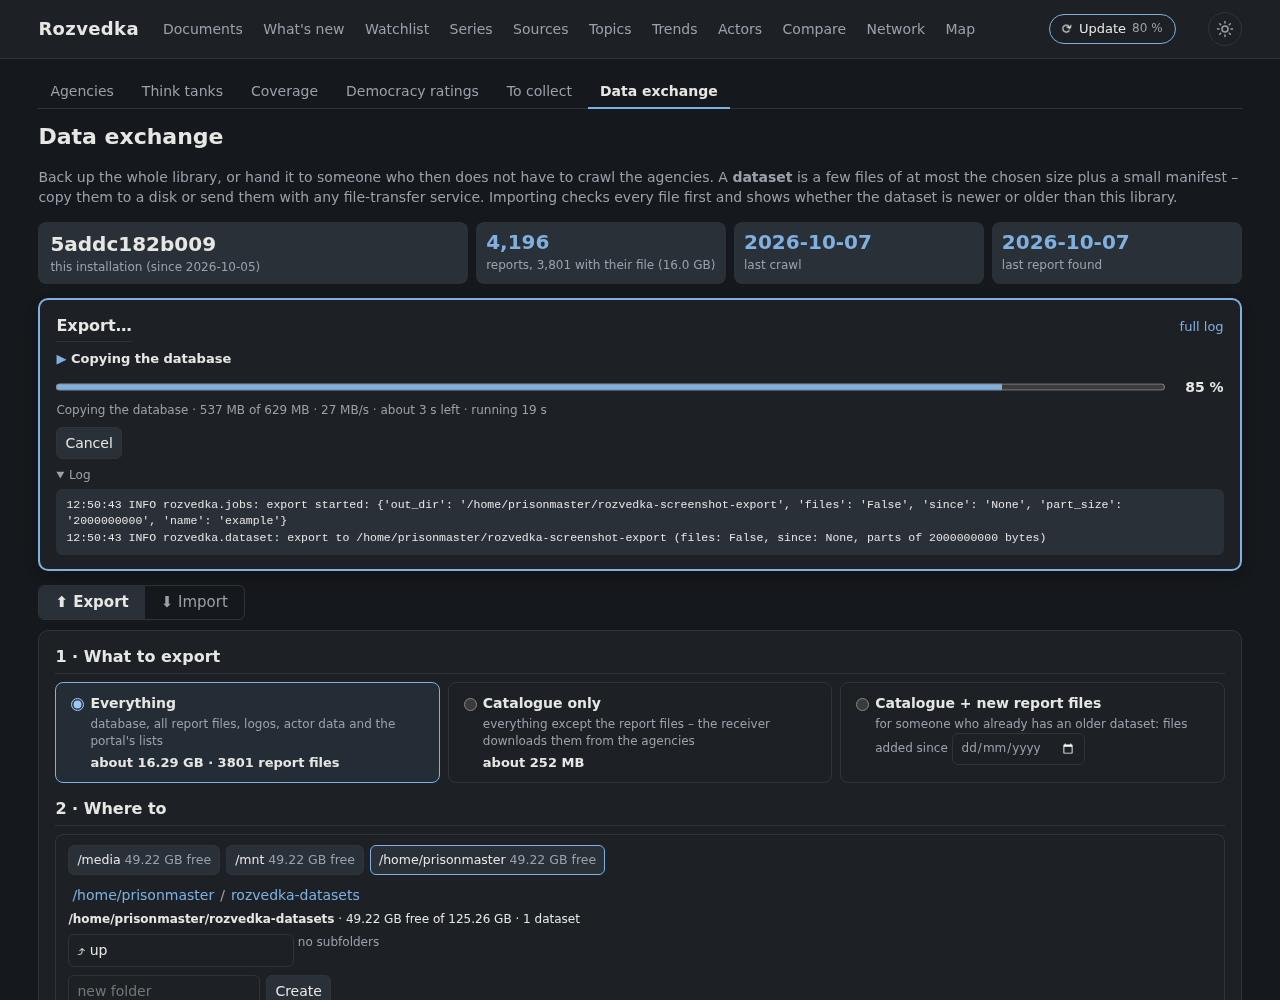
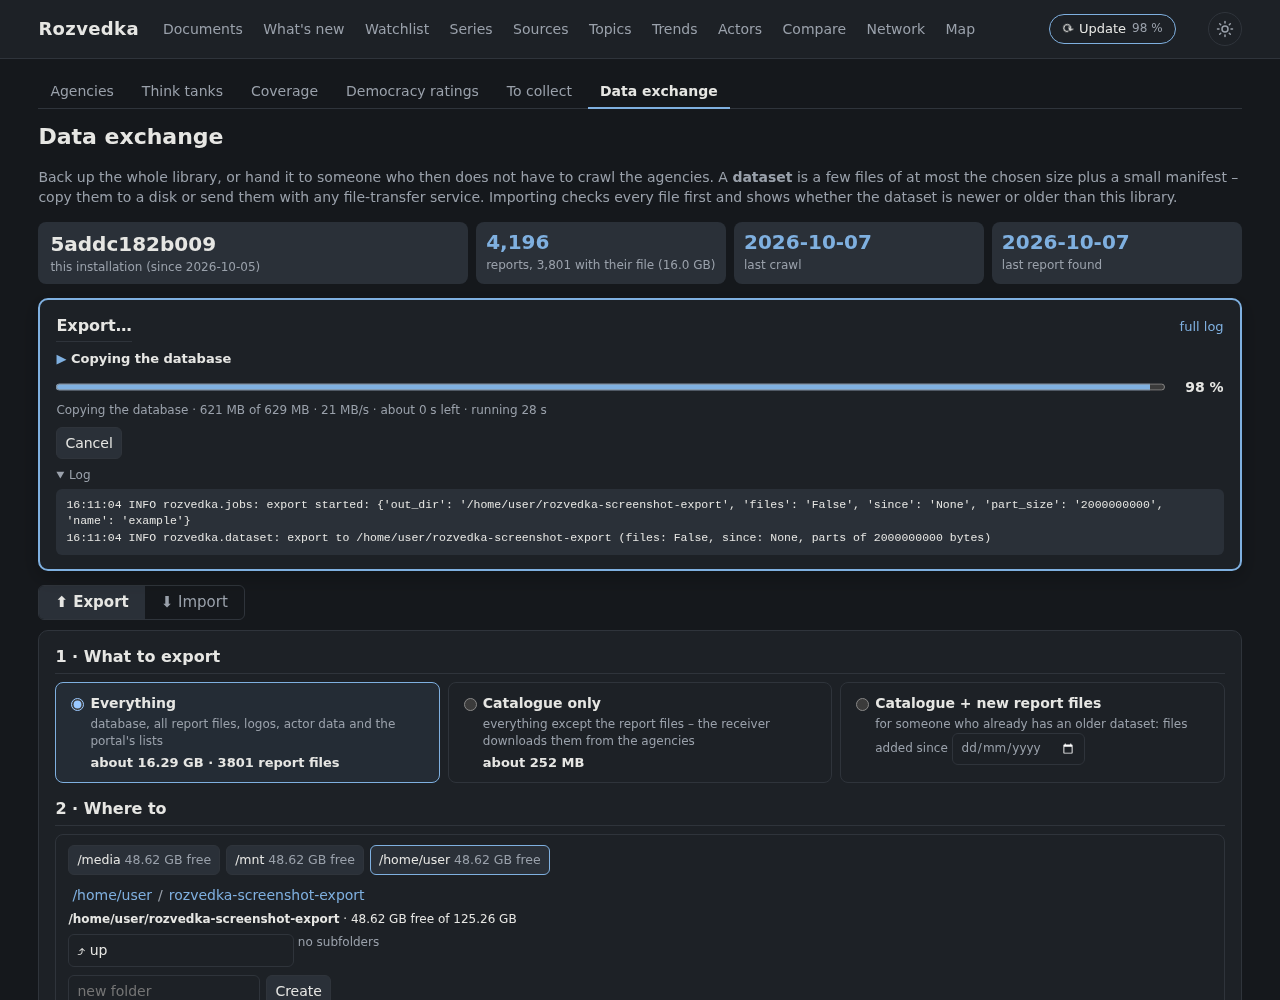
Security hardening and portability: safe dataset import, CSRF/DNS-rebinding guard, local-only default, templated unit, Windows paths

diff --git a/tools/screenshots.py b/tools/screenshots.py
@@ -6,7 +6,8 @@
     python3 tools/screenshots.py --base http://127.0.0.1:8080
 
 Drives headless Chromium over the DevTools protocol (needs `chromium` and the `websockets` package, which comes with
-uvicorn[standard]). Agency logos are removed before every shot – they are the agencies' marks and are not committed.
+uvicorn[standard]). Agency logos are removed before every shot – they are the agencies' marks and are not committed – and the machine's
+home folder is shown as /home/user (the folder picker and job logs would otherwise show the account name).
 The data-exchange shots need a job: start an export (data-export, taken while it runs) or a "Check and compare" of a
 dataset (data-import, taken when the check is done) on /data, then take that shot alone. Every other shot is plain.
 """
@@ -24,6 +25,15 @@ import websockets
 OUT = Path(__file__).resolve().parent.parent / "docs" / "images"
 PORT = 9333
 NO_LOGOS = 'document.querySelectorAll(\'img[src^="/logo/"], .logo-sm\').forEach((e) => e.remove()); 1'
+# the folder picker and job logs show the machine's home folder: the pictures say /home/user instead
+NO_HOME = r"""(() => { const re = /\/home\/(?!user\b)[^\/\s'"]+/g;   // not "user": that would loop
+  const clean = () => {
+    const w = document.createTreeWalker(document.body, NodeFilter.SHOW_TEXT);
+    for (let n; (n = w.nextNode());) if (n.nodeValue.search(re) >= 0) n.nodeValue = n.nodeValue.replace(re, "/home/user");
+  };
+  clean();
+  new MutationObserver(clean).observe(document.body, { childList: true, subtree: true, characterData: true });
+  return 1; })()"""
 WAGNER, CHINA = "Q36597284", "Q148"
 
 # name: (path, height, steps, clip_from) – steps: ("eval", js) | ("type", text) | ("sleep", s); clip_from: a CSS
@@ -96,6 +106,7 @@ async def shoot(ws, name: str, base: str, path: str, height: int, steps: list, c
         elif kind == "sleep":
             await asyncio.sleep(arg)
     await call("Runtime.evaluate", expression=NO_LOGOS)
+    await call("Runtime.evaluate", expression=NO_HOME)
     await asyncio.sleep(0.5)
     y = 0
     if clip_from:

diff --git a/rozvedka/collect.py b/rozvedka/collect.py
@@ -215,7 +215,7 @@ def inbox() -> list[dict]:
         folder = rel.parts[0] if len(rel.parts) > 1 else ""
         _, pdf_title = downloader.pdf_info(f) if f.suffix.lower() == ".pdf" else (None, None)
         name = f.stem
-        out.append({"path": str(rel), "name": f.name, "size": f.stat().st_size, "is_pdf": f.suffix.lower() == ".pdf",
+        out.append({"path": rel.as_posix(), "name": f.name, "size": f.stat().st_size, "is_pdf": f.suffix.lower() == ".pdf",
                     "source_id": _guess_source(srcs, folder), "title": (pdf_title if downloader.good_pdf_title(pdf_title) else
                                                                        downloader.slug(name, 120).replace("-", " ")),
                     "year": crawler.guess_year(name, "") or "", "lang": crawler.guess_lang(f.name, name, "", set(), ) or ""})

diff --git a/rozvedka/downloader.py b/rozvedka/downloader.py
@@ -73,7 +73,7 @@ def store_pdf(doc, dest: Path, tmp: Path) -> tuple[str, str | None, dict]:
     dest.parent.mkdir(parents=True, exist_ok=True)
     tmp.replace(dest)
     pages, pdf_title = pdf_info(dest)
-    fields = {"sha256": sha, "size": len(data), "local_path": str(dest.relative_to(FILES)), "pages_count": pages,
+    fields = {"sha256": sha, "size": len(data), "local_path": dest.relative_to(FILES).as_posix(), "pages_count": pages,
               "mime": "application/pdf", "downloaded_at": datetime.now().isoformat(timespec="seconds")}
     if (good_pdf_title(pdf_title) and is_poor_title(doc["title"], doc["url"])
             and not is_poor_title(pdf_title.strip(), doc["url"])):

diff --git a/rozvedka/folders.py b/rozvedka/folders.py
@@ -13,7 +13,7 @@ MANIFEST = ".manifest.json"
 
 def roots() -> list[Path]:
     extra = [Path(p) for p in os.environ.get("ROZVEDKA_EXCHANGE_DIRS", "").split(":") if p]
-    cands = extra + [Path("/media"), Path("/mnt"), Path("/run/media"), Path.home()]
+    cands = extra + [Path("/media"), Path("/mnt"), Path("/run/media"), Path("/Volumes"), Path.home()]   # /Volumes: macOS
     out = []
     for c in cands:
         try:

diff --git a/README.md b/README.md
@@ -507,6 +507,17 @@ Everything that defines *what* Rozvedka collects and recognises is a hand-editab
 | [`series.yaml`](sources/series.yaml) | confirmed report series per source (title stems per language, editions per year, editions confirmed as not published) – written by the portal, editable by hand |
 | [`events.yaml`](sources/events.yaml) | reference events for the trend charts (Wikipedia titles; dates are resolved from Wikidata) |
 
+Settings of an installation are environment variables (none is required):
+
+| Variable | Default | Meaning |
+|---|---|---|
+| `ROZVEDKA_HOST` | `127.0.0.1` | address `serve` listens on – `0.0.0.0` for the home network (same as `--host`) |
+| `ROZVEDKA_PORT` | `8080` | port of `serve` (same as `--port`) |
+| `ROZVEDKA_ALLOWED_HOSTS` | – | extra host names the portal answers to, comma-separated (IP addresses, `localhost`, `*.local`, `*.lan` and the machine's own name always work) |
+| `ROZVEDKA_DATA` | `data/` in the project folder | where the database, report files, logos and gazetteer live |
+| `ROZVEDKA_DB` | `$ROZVEDKA_DATA/rozvedka.db` | another database file |
+| `ROZVEDKA_EXCHANGE_DIRS` | – | more folders the Data exchange folder picker may use, separated by `:` |
+
 <details>
 <summary><b>How sources are fetched</b> (<code>access</code> in the registry)</summary>
 
@@ -763,6 +774,49 @@ erDiagram
 | `uploads`, `collect_checks` | 0 / 0 | provenance of reports added by hand; “checked, nothing new” marks | To collect |
 | `runs` | 91 | every crawl, download and update with its summary | the Update page's history and estimates |
 | `actor_meta` | 2 | versions of the actor index | rebuilds only when needed |
+
+## Security
+
+Rozvedka is built for one person on one computer or a trusted home network, and has **no login**.
+
+- **Where it listens:** `serve` answers only on this computer unless started with `--host 0.0.0.0` (or
+  `ROZVEDKA_HOST`). Never forward the port to the internet or run it on a public server; for remote access use a VPN
+  (WireGuard, Tailscale).
+- **Other websites cannot use it through your browser:** requests that change something (updates, imports, exports,
+  edits) are refused when they come from another site (cross-site request forgery), and the portal answers only to
+  IP addresses, `localhost`, local names (`*.local`, `*.lan`) and names listed in `ROZVEDKA_ALLOWED_HOSTS` – so a
+  malicious page cannot point its own domain at your machine to read it (DNS rebinding). Responses forbid framing by
+  other sites and send no referrer to other sites.
+- **Datasets from others are untrusted:** importing checks every file's SHA-256, writes report files only below
+  `data/files/`, takes part files only from the manifest's folder, and shows manifest values only as text and numbers.
+- **Files:** the folder picker shows only `/media`, `/mnt`, `/run/media`, `/Volumes`, your home folder and folders
+  listed in `ROZVEDKA_EXCHANGE_DIRS`; PDFs, logos and
+  pictures are served only from `data/`; agency logos are sent with a policy that forbids scripts (an SVG could carry
+  one).
+- **What it sends out:** requests to the agencies' and think tanks' sites (robots.txt respected, one request per host
+  every 2 s), to Wikidata, Wikipedia, Wikimedia Commons, MITRE ATT&CK, Our World in Data, the World Bank and the
+  sanctions and lobbying registers when you run the `fetch-…` commands. No telemetry, no accounts, no CDN at runtime.
+- **Headless Chromium** renders the few JavaScript-only report pages (`access: browser`); it runs without its sandbox
+  (needed under some service managers), so keep it updated with the system.
+- Report a vulnerability through a private GitHub security advisory on the repository.
+
+## Compatibility
+
+| | Status |
+|---|---|
+| **Raspberry Pi OS / Debian 13, Python 3.13, ARM64** | the reference installation |
+| Linux x86-64 and ARM64, Python 3.11–3.13 | test suite passes in CI |
+| macOS, Python 3.13 | test suite passes in CI; external disks appear under `/Volumes` in the folder picker |
+| Windows, Python 3.13 | test suite passes in CI; the folder picker offers only your home folder and OCR needs the tools on `PATH` – WSL is the smoother way |
+| Python 3.10 and older | not supported |
+
+- **Python packages:** pinned in `requirements.txt` (FastAPI, Uvicorn, Jinja2, httpx, pypdf, PyYAML, Beautiful
+  Soup, Markdown); checked with `pip-audit`.
+- **System tools, optional:** `pdftotext` (poppler-utils) for better text extraction, `chromium` for JavaScript-only
+  sites, `ocrmypdf` + Tesseract for scanned reports. Without them those steps are skipped and the rest works.
+- **Browsers:** current Firefox, Chromium/Chrome, Safari and Edge; the pages need JavaScript for charts and maps.
+- **Resources:** the full library is about 16 GB of PDFs plus a 0.6 GB database; a first full update takes hours on a
+  Raspberry Pi 4/5.
 
 ## Development
 

diff --git a/CLAUDE.md b/CLAUDE.md
@@ -56,6 +56,7 @@ next steps. Read it at the start of a session; update it (mark items done, re-pr
 - `main` always holds working code. Every change goes on a branch (`feat/…`, `fix/…`, `sources/…`, `docs/…`,
   `chore/…`) and is merged through a pull request **with a merge commit**.
 - Claude opens the PR, **merges it and cuts the release itself** – the owner does not want to do this manually.
+  Merge locally with a merge commit and push `main` (see "Operating an installation" on why not through the API).
   One PR per change; merge it before starting the next (no stacked PRs).
 - PR descriptions: what changed, how it was verified (tests, sample checks, screenshots), and the test count.
 - Registry edits go in their own commits (`sources: add Latvian SAB reports page`).
@@ -100,13 +101,17 @@ next steps. Read it at the start of a session; update it (mark items done, re-pr
 - Hand-written data files (`sources/*.yaml`) are the source of truth; generated fields (e.g. event dates) come
   from tools, never typed from memory. Quote the country code `"NO"` in YAML.
 
-## Operating the Raspberry Pi installation
+## Operating an installation
 
-- Project path `/home/prisonmaster/Documents/Projects/Rozvedka`; run project commands as the `prisonmaster`
-  user (`sudo -u prisonmaster .venv/bin/python -m rozvedka …`) and `chown -R prisonmaster:prisonmaster .` after
-  writing files as root.
-- Portal: `python -m rozvedka serve` on port 8080 (LAN only, no login – never expose it to the internet).
+- Machine-specific details (project path, the user that owns the checkout) are not kept in the repository. Run
+  project commands as the user that owns the checkout (`stat -c %U .`), e.g. `sudo -u <owner> .venv/bin/python -m
+  rozvedka …`, and give files written as root back to that user (`chown -R <owner>: .`).
+- Portal: `python -m rozvedka serve` on port 8080 – this computer only by default; `--host 0.0.0.0` (or
+  `ROZVEDKA_HOST`) for the home network. No login: never expose it to the internet.
+- Privacy before every push: no personal names, e-mails, home paths, host names or installation IDs in files or
+  screenshots; commits and merge commits use the noreply identity – merge pull requests locally (`git merge --no-ff`)
+  rather than through the GitHub API or web button, which stamp the account's primary e-mail on the merge commit.
 - Stop processes with `kill $(pgrep -f '^.venv/bin/python -m rozvedka serve')`. Never run `pkill -f`/`pgrep -f`
   with a pattern that also appears in the same shell command line – it matches and kills that shell.
-- Ask before anything needing `sudo` beyond running as `prisonmaster` (e.g. `loginctl enable-linger` for the
+- Ask before anything needing `sudo` beyond running as the checkout's owner (e.g. `loginctl enable-linger` for the
   systemd user services in `deploy/`).

diff --git a/CHANGELOG.md b/CHANGELOG.md
@@ -27,6 +27,26 @@ From 0.9.1 on, the significance of a change decides which part of `MAJOR.MINOR.P
 
 ## [Unreleased]
 
+### Security
+- **Importing a dataset can no longer write outside `data/files/`.** A crafted dataset could give a report file a path
+  such as `../../.bashrc` and so place files anywhere the portal's user may write; such files are now skipped and
+  counted. Part files must sit beside the manifest, and the values a manifest shows on the Data exchange page must be
+  numbers (no markup from someone else's file reaches the page).
+- **Requests from other websites are refused** when they would change something (updates, imports, exports, edits –
+  cross-site request forgery), and the portal answers only to IP addresses, `localhost`, local names and names in
+  `ROZVEDKA_ALLOWED_HOSTS` (DNS rebinding). Every response forbids framing by other sites, MIME sniffing and sending
+  the address to other sites.
+
+### Changed
+- **`serve` now listens on this computer only (127.0.0.1) by default.** For the home network start it with
+  `--host 0.0.0.0` or set `ROZVEDKA_HOST=0.0.0.0`; the systemd unit does so.
+- The systemd unit in `deploy/` is a template that works from any folder (install commands at its top) and runs with
+  a read-only system.
+- Report file and inbox paths are stored with `/` on every system (Windows stored `\`).
+- The folder picker also offers `/Volumes` (macOS disks).
+- Documentation: Security and Compatibility sections, the environment variables, an install that works from any
+  folder; CI measures Linux x86-64 and ARM64 with Python 3.10–3.13, macOS and Windows.
+
 ## [0.41.0] – 2026-10-07
 
 ### Added

diff --git a/docs/ROADMAP.md b/docs/ROADMAP.md
@@ -129,7 +129,7 @@ Each item: why · what · done when · version step.
 ### E. Engineering and operations
 
 1. **The portal starts after a reboot** – install `deploy/rozvedka-web.service` as a user service with
-   `loginctl enable-linger prisonmaster` (needs sudo – owner's approval); **remove the weekly update timer from
+   `loginctl enable-linger <user>` (needs sudo – owner's approval); **remove the weekly update timer from
    `deploy/`** (the owner declined periodic jobs). · patch
 2. ✅ (0.31.1) **CI** – GitHub Actions running the tests on every PR. · patch
 3. **Split `app.py`** into route modules (documents, actors, trends, maps, data, update) and a small migration helper. · patch
